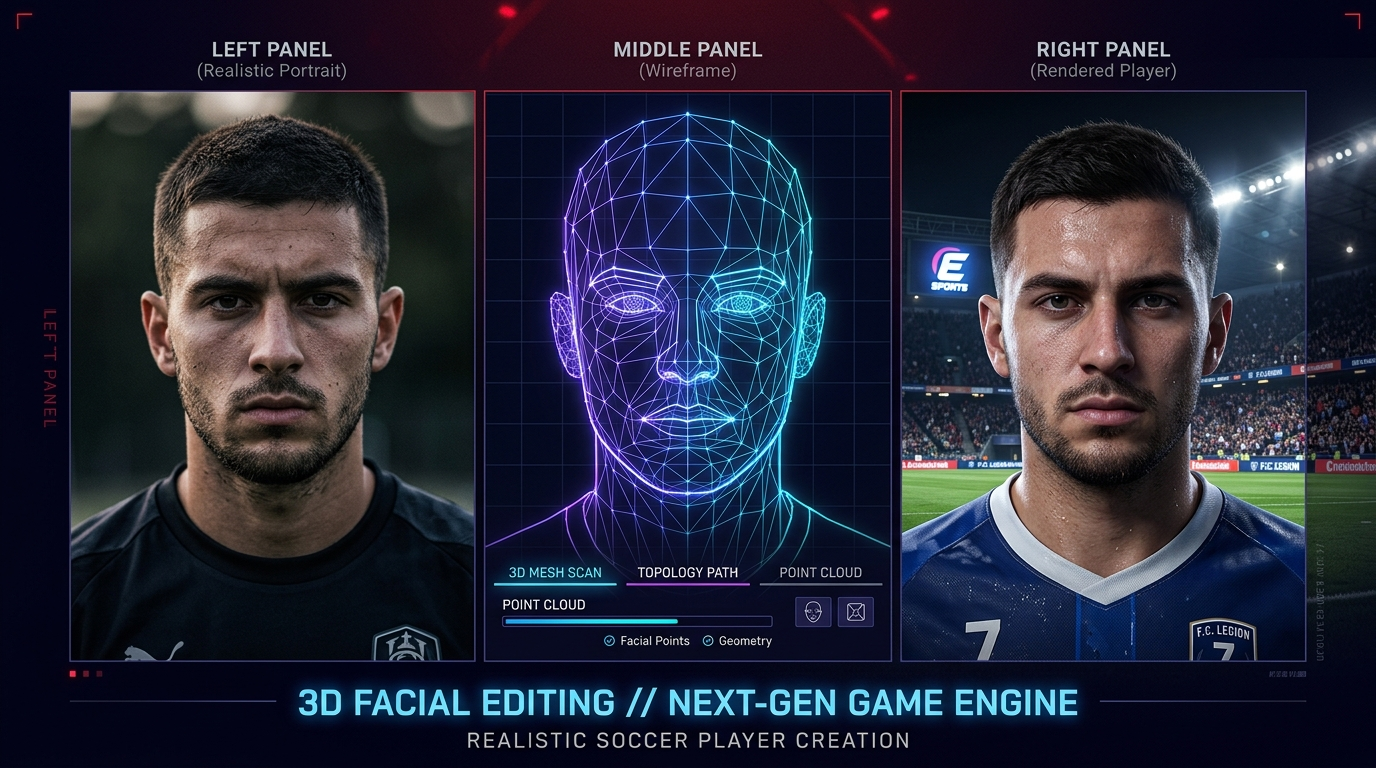
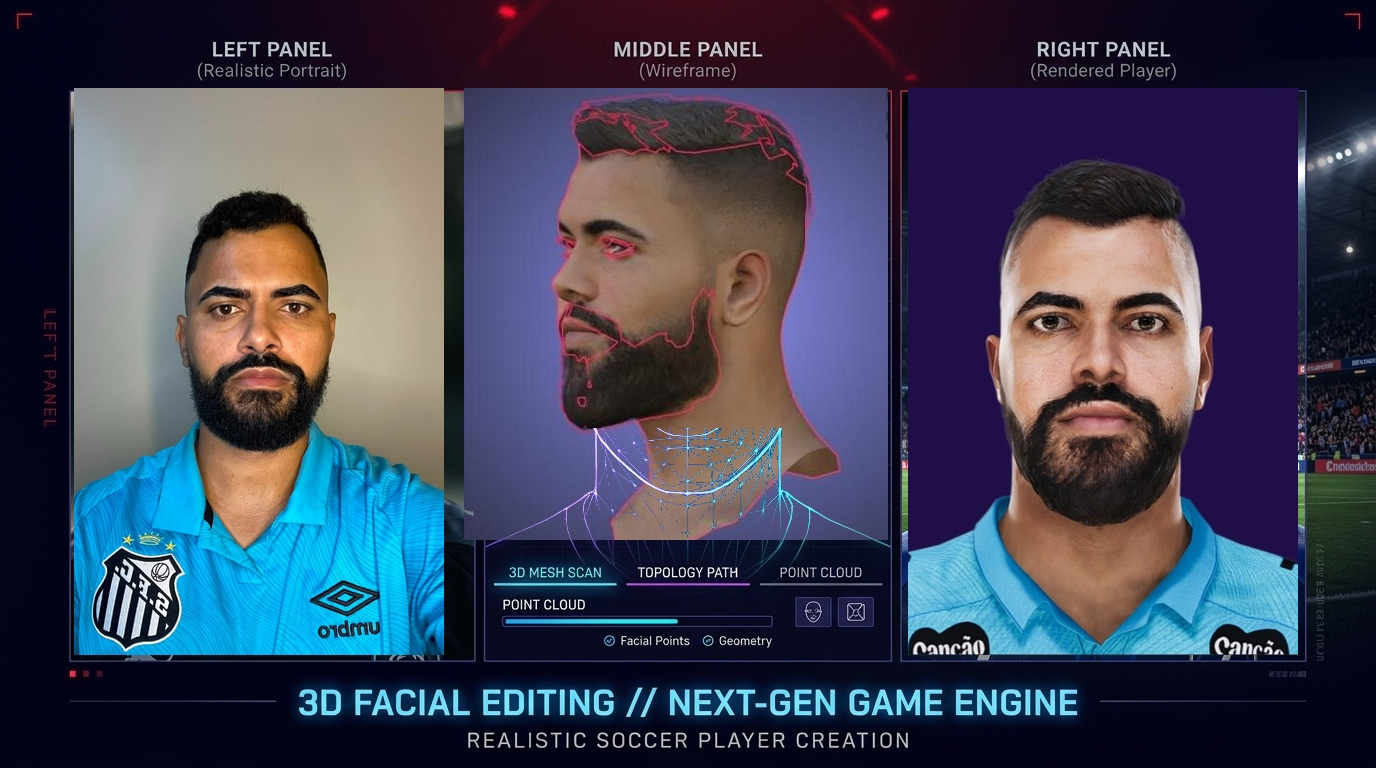
feat: atualiza imagem composta da Hero Section com as 3 novas fotos

diff --git a/src/components/sections/HeroSection.backup.tsx b/src/components/sections/HeroSection.backup.tsx
@@ -1,0 +1,131 @@
+import React from 'react';
+import Image from 'next/image';
+import Badge from '@/components/ui/Badge';
+import CTAButton from '@/components/ui/CTAButton';
+import { courseConfig } from '@/config/course';
+import { siteConfig } from '@/config/site';
+import { getAssetPath } from '@/lib/assets';
+
+export default function HeroSectionBackup() {
+  const tags = ['Blender', 'Photoshop', 'PES 2021', 'Indicado para iniciantes'];
+
+  return (
+    <section className="relative bg-[#080417] text-white py-12 md:py-20 border-b border-white/15 overflow-hidden">
+      
+      {/* Background Graphic Image with Subtle Dark Overlay */}
+      <div className="absolute inset-0 z-0">
+        <Image
+          src={getAssetPath('/images/hero-facemaker-betinho-games.jpg')}
+          alt="Transformação de fotografia em face 3D para game de futebol"
+          fill
+          priority
+          sizes="100vw"
+          className="object-cover opacity-25"
+        />
+        <div className="absolute inset-0 bg-gradient-to-r from-[#080417] via-[#080417]/95 to-[#151035]/85 z-10 pointer-events-none" />
+      </div>
+
+      <div className="max-w-7xl mx-auto px-4 sm:px-6 lg:px-8 relative z-20">
+        <div className="grid grid-cols-1 lg:grid-cols-12 gap-8 items-center">
+          
+          {/* Left Column (Left Aligned Content) */}
+          <div className="lg:col-span-7 space-y-5 text-left">
+            
+            {/* Selo */}
+            <div className="flex flex-wrap items-center gap-2">
+              <Badge variant="red">CURSO ONLINE DE FACEMAKER</Badge>
+              <Badge variant="purple">POR {siteConfig.brandName.toUpperCase()}</Badge>
+            </div>
+
+            {/* H1 */}
+            <h1 className="text-3xl sm:text-5xl md:text-6xl font-black font-outfit uppercase tracking-tight text-white leading-tight">
+              Crie rostos 3D realistas para o PES 2021
+            </h1>
+
+            {/* Subheadline */}
+            <p className="text-sm sm:text-base text-[#C7C3D5] leading-relaxed max-w-2xl">
+              Aprenda com Betinho Games todo passo a passo do absoluto zero como criar sua Faces personalizadas para o Pes 2021 sem complicação.
+            </p>
+
+            {/* Tags */}
+            <div className="flex flex-wrap gap-2 pt-1">
+              {tags.map((tag, idx) => (
+                <span
+                  key={idx}
+                  className="px-3 py-1 rounded-none bg-[#151035] border border-white/20 text-xs font-mono font-bold text-white uppercase tracking-wider"
+                >
+                  {tag}
+                </span>
+              ))}
+            </div>
+
+            {/* CTA */}
+            <div className="pt-4 space-y-3 max-w-md">
+              <CTAButton
+                href="#apresentacao"
+                variant="primary"
+                size="lg"
+                fullWidth
+                trackingEventName="click_hero_cta"
+              >
+                COMEÇAR O CURSO
+              </CTAButton>
+
+              <div className="flex items-center gap-2 text-xs text-[#C7C3D5] font-mono">
+                <svg className="w-4 h-4 text-[#ED3B57] shrink-0" fill="none" viewBox="0 0 24 24" stroke="currentColor">
+                  <path strokeLinecap="round" strokeLinejoin="round" strokeWidth="2" d="M12 15v2m-6 4h12a2 2 0 002-2v-6a2 2 0 00-2-2H6a2 2 0 00-2 2v6a2 2 0 002 2zm10-10V7a4 4 0 00-8 0v4h8z" />
+                </svg>
+                <span>{courseConfig.securityMicrotext}</span>
+              </div>
+            </div>
+
+          </div>
+
+          {/* Right Column: Catalog Poster Tile with Complete Image Display */}
+          <div className="lg:col-span-5">
+            <div className="card-gamer-dark rounded-none p-4 bg-[#151035] border-white/20 space-y-4 text-center shadow-none relative">
+              
+              {/* Full 16:9 Image Display without cropping any models */}
+              <div className="aspect-video rounded-none bg-[#0D0828] border border-white/15 relative overflow-hidden">
+                <Image
+                  src={getAssetPath('/images/hero-facemaker-betinho-games.jpg')}
+                  alt="Processo completo de transformação: fotografia real, malha 3D wireframe e jogador finalizado"
+                  fill
+                  sizes="(max-width: 768px) 100vw, 500px"
+                  className="object-contain"
+                />
+              </div>
+
+              {/* Text Caption below image */}
+              <div className="text-left space-y-1 pt-1">
+                <span className="text-[10px] font-mono font-bold text-[#8068E8] uppercase tracking-widest block">
+                  PES eFootball 2021 Processo 3D
+                </span>
+                <h3 className="text-base font-black font-outfit text-[#FFFFFF] uppercase tracking-wider leading-tight">
+                  Fotografia → Wireframe → Face 3D
+                </h3>
+                <p className="text-xs text-[#C7C3D5]">
+                  Visualização completa dos três estágios de desenvolvimento
+                </p>
+              </div>
+
+              <div className="space-y-2 pt-1">
+                <CTAButton
+                  href="#apresentacao"
+                  variant="outline"
+                  size="md"
+                  fullWidth
+                  trackingEventName="click_hero_card_cta"
+                >
+                  GARANTIR MINHA VAGA
+                </CTAButton>
+              </div>
+
+            </div>
+          </div>
+
+        </div>
+      </div>
+    </section>
+  );
+}
